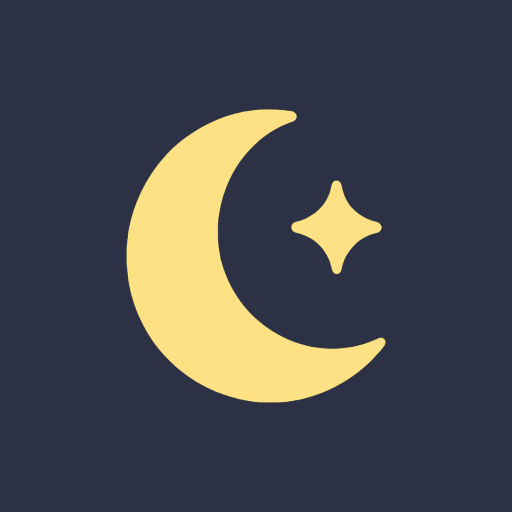
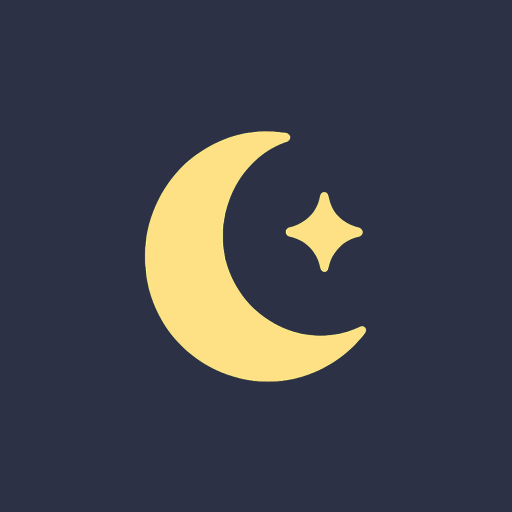
meta2

Changed region(s): [[0.2188, 0.1875, 0.75, 0.8125], [0.5625, 0.3438, 0.75, 0.5312]]

diff --git a/index.html b/index.html
@@ -23,12 +23,17 @@
   <meta property="og:title" content="하루달" />
   <meta property="og:description" content="하루를 비추는 감정의 달력, 하루달" />
   <meta property="og:url" content="https://harudal-diary.pages.dev/" />
-  <meta property="og:image" content="https://harudal-diary.pages.dev/og-image.png" />
+  <meta property="og:image" content="https://harudal-diary.pages.dev/og-image.png?v=2" />
+  <meta property="og:image:type" content="image/png" />
+  <meta property="og:image:width" content="1200" />
+  <meta property="og:image:height" content="630" />
+  <meta property="og:image:alt" content="하루달" />
 
   <meta name="twitter:card" content="summary_large_image" />
   <meta name="twitter:title" content="하루달" />
   <meta name="twitter:description" content="하루를 비추는 감정의 달력, 하루달" />
-  <meta name="twitter:image" content="https://harudal-diary.pages.dev/android-chrome-512x512.png" />
+  <meta name="twitter:image" content="https://harudal-diary.pages.dev/og-image.png?v=2" />
+  <meta name="twitter:image:alt" content="하루달" />
 
   <link rel="canonical" href="https://harudal-diary.pages.dev/" />
 
